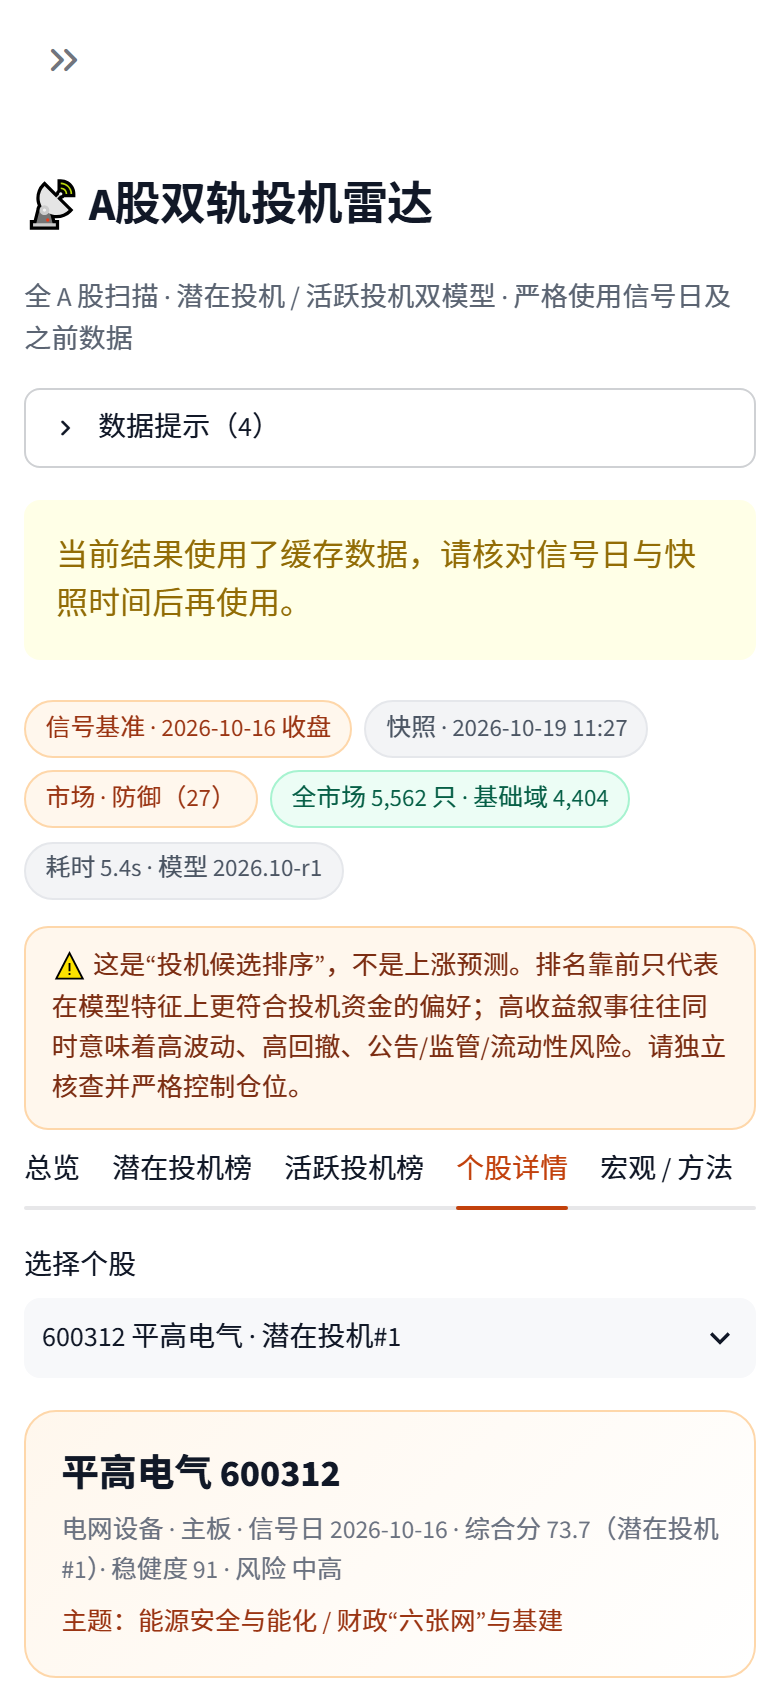
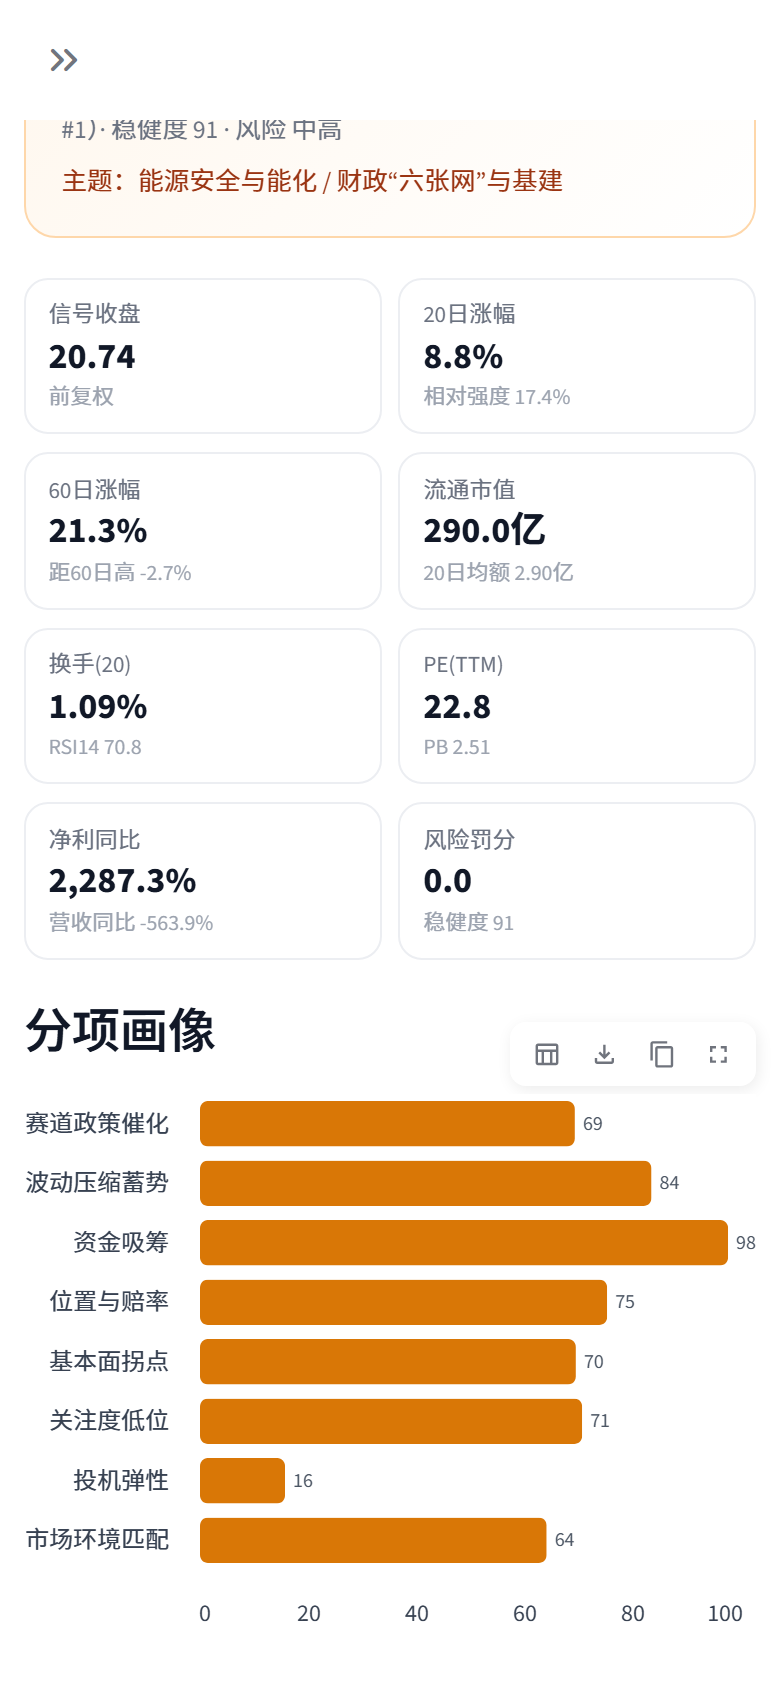
fix: replace Plotly with Altair and document root requirements for Streamlit Cloud

diff --git a/app.py b/app.py
@@ -14,11 +14,10 @@ import sys
 from dataclasses import replace
 from pathlib import Path
 
+import altair as alt
 import numpy as np
 import pandas as pd
-import plotly.graph_objects as go
 import streamlit as st
-from plotly.subplots import make_subplots
 
 ROOT = Path(__file__).resolve().parent
 if str(ROOT) not in sys.path:
@@ -268,77 +267,73 @@ def export_csv(df: pd.DataFrame, model_key: str) -> bytes:
     return out.to_csv(index=False, encoding="utf-8-sig").encode("utf-8-sig")
 
 
-def plot_price(row: pd.Series, kline: pd.DataFrame) -> go.Figure:
+def plot_price(row: pd.Series, kline: pd.DataFrame) -> alt.VConcatChart:
+    """Altair K 线 + MA20/60 + 成交量，避免依赖 plotly。"""
     code = str(row["code"])
     data = kline[kline["code"].astype(str) == code].copy()
     data["date"] = pd.to_datetime(data["date"])
-    data = data.sort_values("date").tail(180)
+    data = data.sort_values("date").tail(170)
     data["ma20"] = data["close"].rolling(20).mean()
     data["ma60"] = data["close"].rolling(60).mean()
-    fig = make_subplots(
-        rows=2, cols=1, shared_xaxes=True, vertical_spacing=0.04,
-        row_heights=[0.76, 0.24], subplot_titles=("", ""),
+    data["涨跌"] = np.where(data["close"] >= data["open"], "涨", "跌")
+    tooltip = [
+        alt.Tooltip("date:T", title="日期", format="%Y-%m-%d"),
+        alt.Tooltip("open:Q", title="开", format=".2f"),
+        alt.Tooltip("high:Q", title="高", format=".2f"),
+        alt.Tooltip("low:Q", title="低", format=".2f"),
+        alt.Tooltip("close:Q", title="收", format=".2f"),
+        alt.Tooltip("volume:Q", title="量", format=",.0f"),
+    ]
+    base = alt.Chart(data).encode(x=alt.X("date:T", title=None, axis=alt.Axis(format="%Y-%m", labelAngle=0)))
+    wick = base.mark_rule(strokeWidth=1.0).encode(
+        y=alt.Y("low:Q", title="价格", scale=alt.Scale(zero=False)),
+        y2="high:Q",
+        color=alt.condition(alt.datum.close >= alt.datum.open, alt.value("#d9480f"), alt.value("#2b8a3e")),
+        tooltip=tooltip,
     )
-    fig.add_trace(
-        go.Candlestick(
-            x=data["date"], open=data["open"], high=data["high"], low=data["low"], close=data["close"],
-            increasing_line_color="#d9480f", increasing_fillcolor="#f97316",
-            decreasing_line_color="#2b8a3e", decreasing_fillcolor="#4ade80",
-            name="K线",
-        ),
-        row=1, col=1,
+    body = base.mark_bar(size=4, opacity=0.95).encode(
+        y="open:Q", y2="close:Q",
+        color=alt.condition(alt.datum.close >= alt.datum.open, alt.value("#f97316"), alt.value("#4ade80")),
+        tooltip=tooltip,
     )
-    fig.add_trace(
-        go.Scatter(x=data["date"], y=data["ma20"], name="MA20", line=dict(color="#f59e0b", width=1.4)),
-        row=1, col=1,
+    ma20 = base.mark_line(color="#f59e0b", strokeWidth=1.4).encode(y=alt.Y("ma20:Q", title=None))
+    ma60 = base.mark_line(color="#2563eb", strokeWidth=1.4).encode(y=alt.Y("ma60:Q", title=None))
+    price = alt.layer(wick, body, ma20, ma60).properties(height=290)
+    volume = alt.Chart(data).mark_bar(opacity=0.65).encode(
+        x=alt.X("date:T", title=None),
+        y=alt.Y("volume:Q", title="成交量"),
+        color=alt.condition(alt.datum.close >= alt.datum.open, alt.value("#f97316"), alt.value("#4ade80")),
+        tooltip=tooltip,
+    ).properties(height=80)
+    return (
+        alt.vconcat(price, volume, spacing=6)
+        .resolve_scale(x="shared")
+        .configure_view(stroke=None)
+        .configure_axis(gridColor="#eef0f3", domain=False, labelColor="#6b7280", titleColor="#6b7280")
     )
-    fig.add_trace(
-        go.Scatter(x=data["date"], y=data["ma60"], name="MA60", line=dict(color="#2563eb", width=1.4)),
-        row=1, col=1,
-    )
-    colors = np.where(data["close"] >= data["open"], "#f97316", "#4ade80")
-    fig.add_trace(
-        go.Bar(x=data["date"], y=data["volume"], marker_color=colors, name="成交量", opacity=0.75),
-        row=2, col=1,
-    )
-    fig.update_layout(
-        height=450, margin=dict(l=8, r=8, t=16, b=8),
-        xaxis_rangeslider_visible=False, hovermode="x unified",
-        legend=dict(orientation="h", yanchor="bottom", y=1.0, xanchor="left", x=0),
-        paper_bgcolor="rgba(0,0,0,0)", plot_bgcolor="rgba(0,0,0,0)",
-        font=dict(size=11),
-    )
-    fig.update_xaxes(showgrid=False)
-    fig.update_yaxes(gridcolor="#eef0f3", zeroline=False)
-    return fig
 
 
-def plot_radar(row: pd.Series, model_key: str) -> go.Figure:
+def plot_radar(row: pd.Series, model_key: str) -> alt.Chart:
+    """用横向分项条形图替代雷达图，手机端更易读。"""
     order = {
         "potential": ["policy", "compression", "accumulation", "base", "fundamental", "neglect", "elasticity", "regime"],
         "active": ["momentum", "theme", "volume", "breakout", "flow", "elasticity", "fundamental", "regime"],
     }[model_key]
-    labels, values = [], []
+    rows = []
     for key in order:
         col = f"c_{key}"
         if col in row.index and pd.notna(row[col]):
-            labels.append(COMPONENT_LABELS.get(key, key))
-            values.append(float(row[col]))
-    if not labels:
-        return go.Figure()
-    labels.append(labels[0])
-    values.append(values[0])
-    fig = go.Figure(go.Scatterpolar(
-        r=values, theta=labels, fill="toself",
-        line_color=score_color(model_key), fillcolor="rgba(249,115,22,.18)",
-    ))
-    fig.update_layout(
-        height=360, margin=dict(l=35, r=35, t=35, b=20),
-        polar=dict(radialaxis=dict(visible=True, range=[0, 100], tickfont=dict(size=9), gridcolor="#e5e7eb"),
-                   angularaxis=dict(tickfont=dict(size=10))),
-        showlegend=False, paper_bgcolor="rgba(0,0,0,0)", font=dict(size=10),
-    )
-    return fig
+            rows.append({"分项": COMPONENT_LABELS.get(key, key), "得分": float(row[col])})
+    if not rows:
+        return alt.Chart(pd.DataFrame({"分项": [], "得分": []})).mark_bar()
+    df = pd.DataFrame(rows)
+    chart = alt.Chart(df).mark_bar(cornerRadius=4, color=score_color(model_key)).encode(
+        x=alt.X("得分:Q", title=None, scale=alt.Scale(domain=[0, 100])),
+        y=alt.Y("分项:N", title=None, sort=list(df["分项"])),
+        tooltip=[alt.Tooltip("分项:N", title="分项"), alt.Tooltip("得分:Q", title="得分", format=".1f")],
+    ).properties(height=285)
+    text = chart.mark_text(align="left", dx=4, color="#4b5563", fontSize=10).encode(text=alt.Text("得分:Q", format=".0f"))
+    return (chart + text).configure_view(stroke=None).configure_axis(grid=False, domain=False, labelColor="#374151", titleColor="#6b7280")
 
 
 def reason_text(row: pd.Series, model_key: str) -> list[str]:
@@ -420,10 +415,10 @@ def render_detail(result: dict, n_potential: int, n_active: int) -> None:
     c1, c2 = st.columns([1, 1.45], gap="medium")
     with c1:
         st.markdown("#### 分项画像")
-        st.plotly_chart(plot_radar(row, model_key), width="stretch", config={"displayModeBar": False})
+        st.altair_chart(plot_radar(row, model_key), width="stretch")
     with c2:
         st.markdown("#### 价格与均线")
-        st.plotly_chart(plot_price(row, kline), width="stretch", config={"displayModeBar": False})
+        st.altair_chart(plot_price(row, kline), width="stretch")
     st.markdown("#### 模型解释")
     for line in reason_text(row, model_key):
         st.markdown(f"<div class='reason'>{line}</div>", unsafe_allow_html=True)

diff --git a/DEPLOY_STREAMLIT.md b/DEPLOY_STREAMLIT.md
@@ -2,6 +2,13 @@
 
 目标：得到一个可以在手机浏览器打开的固定 URL，同时保留本地运行能力。
 
+> **重要：依赖文件必须在仓库根目录。** Streamlit Community Cloud 只读取仓库根目录的 `requirements.txt`。如果你把项目放在 `ashare-spec-radar/` 子目录中，当前报错 `ModuleNotFoundError: plotly` 的原因就是根目录没有依赖文件。两种修复方式：
+>
+> 1. **推荐**：把 `ashare-spec-radar/` 里的内容直接作为仓库根目录（`app.py`、`requirements.txt` 与 `.git` 同级），Main file 填 `app.py`；
+> 2. 保留子目录：在仓库根目录新增 `requirements.txt`（内容与子目录中的一致），Main file 填 `ashare-spec-radar/app.py`。
+>
+> 修改后到 Streamlit Cloud 右上角 **Manage app → Reboot app**，不要只刷新浏览器。
+
 ---
 
 ## 1. 准备 GitHub 仓库
@@ -58,7 +65,7 @@ https://<app-name>.streamlit.app
 ## 3. 手机使用建议
 
 - 首屏“总览”看两个榜单 Top 3；点“潜在投机榜 / 活跃投机榜”看完整表格；
-- 表格可横向滑动；点“个股详情”查看雷达、价格/均线、风险标签；
+- 表格可横向滑动；点“个股详情”查看分项条形图、价格/均线、风险标签；
 - 页面顶部必须核对 **信号基准日** 与 **快照时间**；
 - 出现“使用缓存/内置离线数据”时，说明实时接口异常，不要把它当作盘中实时信号；
 - 侧栏“刷新行情（清空缓存）”会清空服务端缓存并重新抓取；
@@ -120,7 +127,8 @@ python scripts/scan.py --n 12 --depth 300
 
 | 现象 | 处理 |
 |---|---|
-| `ModuleNotFoundError: plotly` | 确认 `requirements.txt` 已提交，且没有把 `plotly` 写进 `requirements-dev.txt` 之外 |
+| `ModuleNotFoundError: plotly` | 这是旧版本/旧部署的报错。当前代码已改用 Streamlit 自带依赖 Altair；拉取最新提交并 **Reboot app**。根目录缺少 `requirements.txt` 仍会导致其他依赖装不上，见本文开头的修复方式 |
+| `ModuleNotFoundError: altair` | 极简环境缺少 Altair。确认仓库根目录 `requirements.txt` 包含 `altair>=5,<7`，然后 Reboot app |
 | 页面空白/一直转圈 | 查看 Cloud 日志；可能是首次抓行情较慢，或接口被限流 |
 | 提示 `data/bootstrap` 缺失 | 本地执行 `python scripts/build_bootstrap.py` 并提交 `data/bootstrap/` |
 | 时区/信号日不对 | 程序按 Asia/Shanghai 判断 15:10 收盘确认；云端 UTC 不影响 |

diff --git a/README.md b/README.md
@@ -80,7 +80,9 @@ SPEC_RADAR_OFFLINE=1 streamlit run app.py
 4. Python version 选 3.12；
 5. Deploy。部署完成后用手机打开生成的 `https://<app>.streamlit.app`。
 
-Streamlit Cloud 首次启动会执行 `pip install -r requirements.txt`。如果云端访问中国行情接口不稳定，程序会自动降级到内置灾备包并提示；也可以先在本地运行一次 `python scripts/build_bootstrap.py`，提交更新后的 `data/bootstrap/` 再部署。
+Streamlit Cloud 首次启动会执行 `pip install -r requirements.txt`。**注意：Streamlit 只读取仓库根目录的 `requirements.txt`。** 如果你把整个 `ashare-spec-radar/` 文件夹放进一个更大的 GitHub 仓库，请要么把本目录内容移到仓库根目录、Main file 填 `app.py`；要么保留子目录，但在仓库根目录再放一份 `requirements.txt`，Main file 填 `ashare-spec-radar/app.py`。当前图表使用 Streamlit 自带依赖 Altair，不再强依赖 Plotly；但根目录依赖文件仍是部署规范。
+
+如果云端访问中国行情接口不稳定，程序会自动降级到内置灾备包并提示；也可以先在本地运行一次 `python scripts/build_bootstrap.py`，提交更新后的 `data/bootstrap/` 再部署。
 
 **不需要 API Key，不需要数据库。** 数据来自公开行情接口。
 
